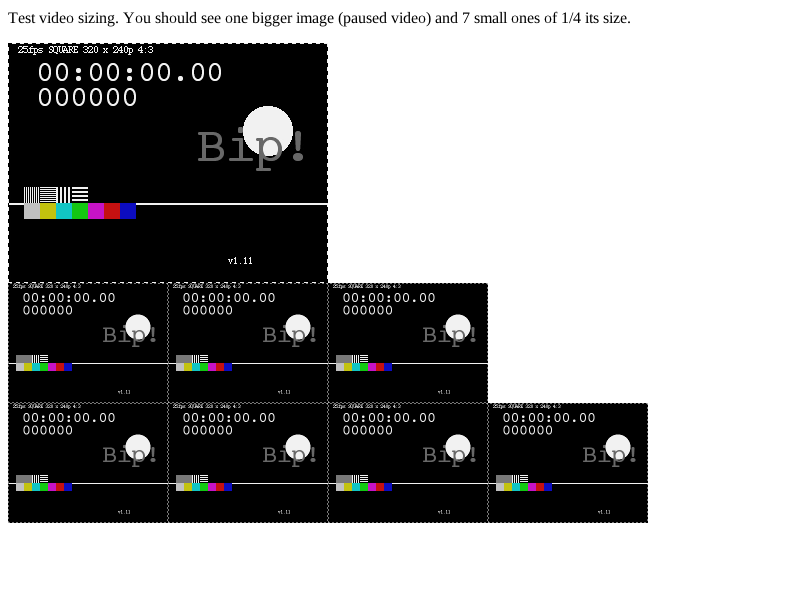
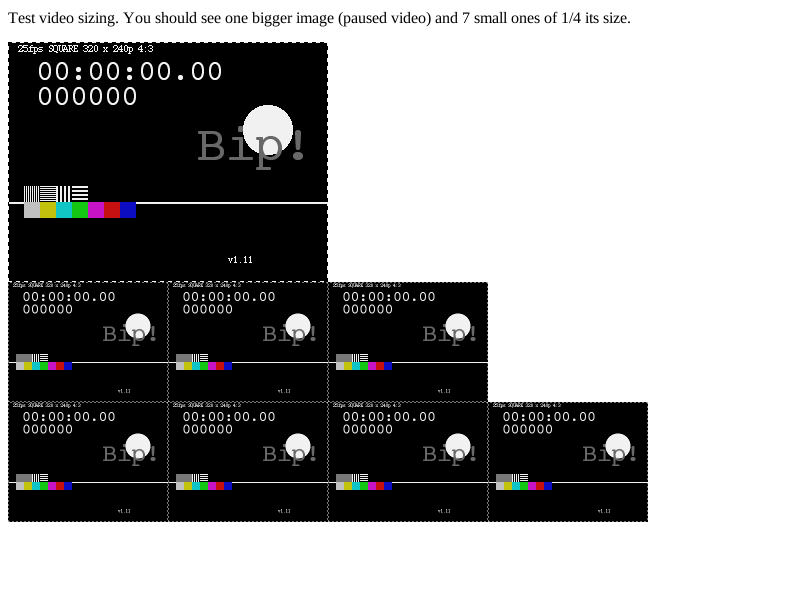
[EFL] media/controls-styling-strict.html is failing https://bugs.webkit.org/show_bug.cgi?id=91960
Patch by Christophe Dumez <christophe.dumez@intel.com> on 2012-07-23
Reviewed by Kenneth Rohde Christiansen.

Source/WebCore:

Use "display: -webkit-box;" instead of inline-block
for current-time control. This is needed because
inline-block behaves differently in strict mode.

No new test, already tested by media/controls-styling-strict.html

* css/mediaControlsEfl.css:
(audio::-webkit-media-controls-current-time-display, video::-webkit-media-controls-current-time-display):

LayoutTests:

Update test expectations for media tests now that
we use "display: -webkit-box;" for the current-time
control.

* platform/efl/media/audio-controls-rendering-expected.txt:
* platform/efl/media/audio-repaint-expected.png:
* platform/efl/media/audio-repaint-expected.txt:
* platform/efl/media/controls-layout-direction-expected.png:
* platform/efl/media/controls-strict-expected.png:
* platform/efl/media/controls-strict-expected.txt:
* platform/efl/media/controls-styling-expected.txt:
* platform/efl/media/controls-styling-strict-expected.png: Added.
* platform/efl/media/controls-styling-strict-expected.txt: Added.
* platform/efl/media/media-controls-clone-expected.png:
* platform/efl/media/media-controls-clone-expected.txt:
* platform/efl/media/video-aspect-ratio-expected.png:
* platform/efl/media/video-layer-crash-expected.png:
* platform/efl/media/video-transformed-expected.png:
* platform/efl/media/video-zoom-controls-expected.png:
* platform/efl/media/video-zoom-controls-expected.txt:
[…]

diff --git a/Source/WebCore/css/mediaControlsEfl.css b/Source/WebCore/css/mediaControlsEfl.css
@@ -84,7 +84,7 @@ audio::-webkit-media-controls-timeline-container, video::-webkit-media-controls-
 audio::-webkit-media-controls-current-time-display, video::-webkit-media-controls-current-time-display {
     -webkit-appearance: media-current-time-display;
     -webkit-user-select: none;
-    display: inline-block;
+    display: -webkit-box;
     height: 20px;
 
     padding: 4px;
